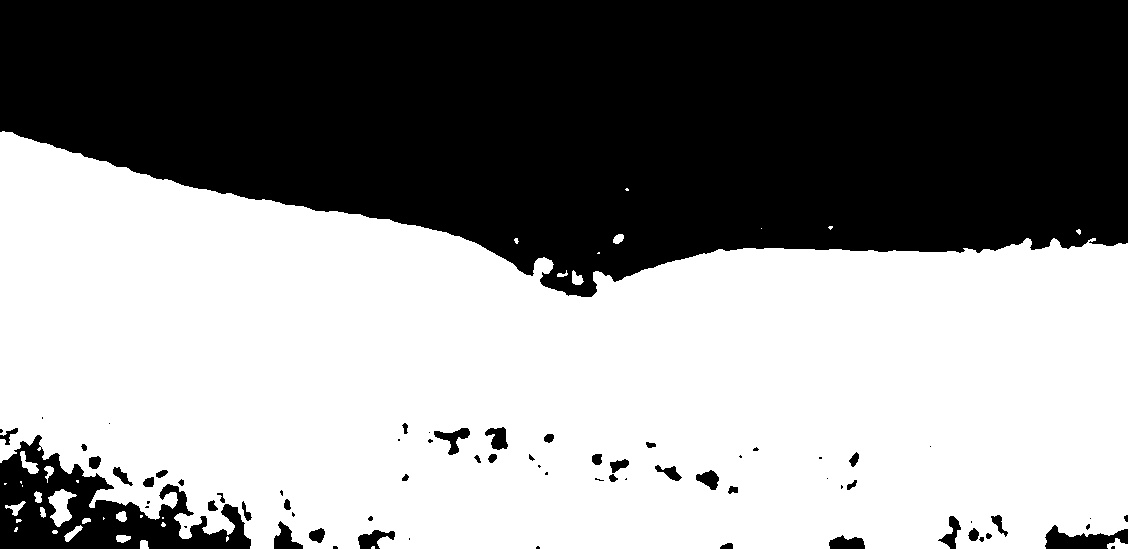
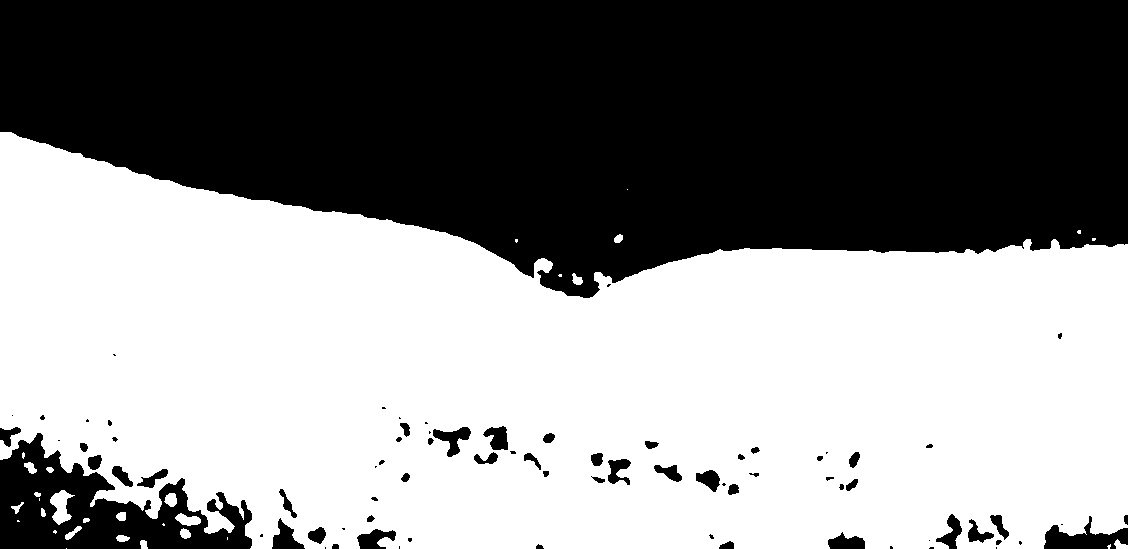
played with gauss in 4.1 and 4.2 (again)

diff --git a/1. Exercise/FCNs_1_4.py b/1. Exercise/FCNs_1_4.py
@@ -29,7 +29,7 @@ def Triangle_Threshholding_Algorithm(img_norm):
 def Otsu_Thresholding_Algorithm_gauss(img_norm):
     #apply gauss filter before Otsu Thresholding
     img = np.uint8(img_norm*255)
-    img = cv2.GaussianBlur(img, (11,11), 9)
+    img = cv2.GaussianBlur(img, (11,11), 5)
     Otsu_th,Otsu_img = cv2.threshold(img,0,255,cv2.THRESH_BINARY+cv2.THRESH_OTSU)
     cv2.imwrite("Otsu_Mask_gauss.jpg", Otsu_img)
     return Otsu_th                             # return threshold value
@@ -37,7 +37,7 @@ def Otsu_Thresholding_Algorithm_gauss(img_norm):
 def Triangle_Threshold_Algorithm_gauss(img_norm):
     #apply gauss filter before Triangle Thresholding
     img = np.uint8(img_norm*255)
-    img = cv2.GaussianBlur(img, (11,11), 9)
+    img = cv2.GaussianBlur(img, (11,11), 5)
     Triangle_th,Triangle_img = cv2.threshold(img,0,255,cv2.THRESH_BINARY+cv2.THRESH_TRIANGLE)
     cv2.imwrite("Triangle_Mask_gauss.jpg", Triangle_img)
     return Triangle_th                         # return threshold value
